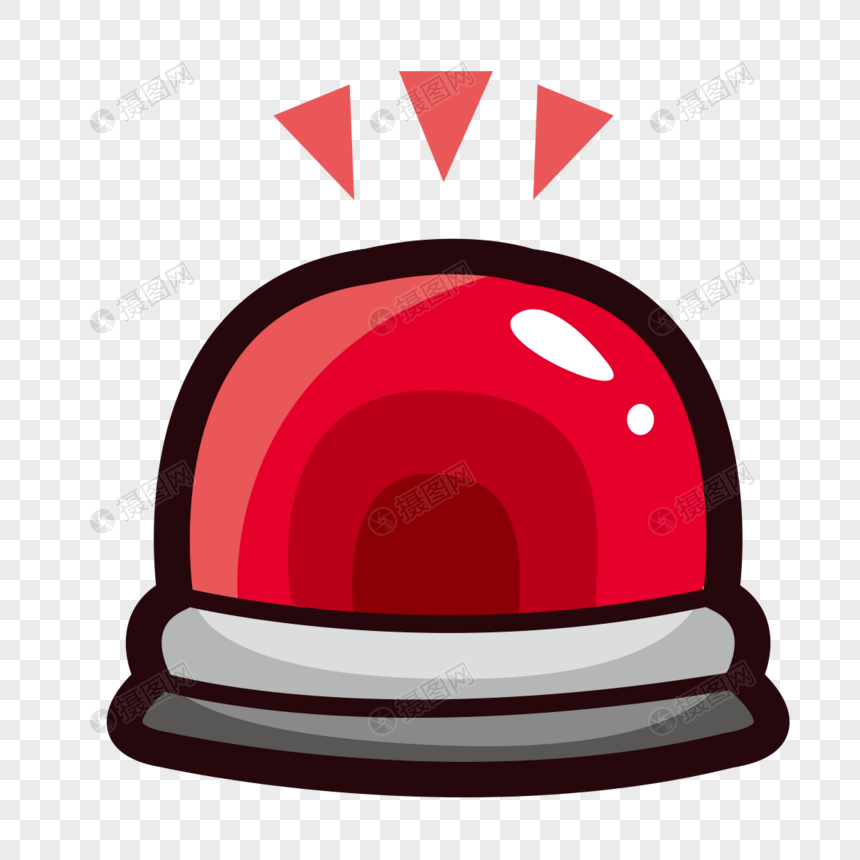
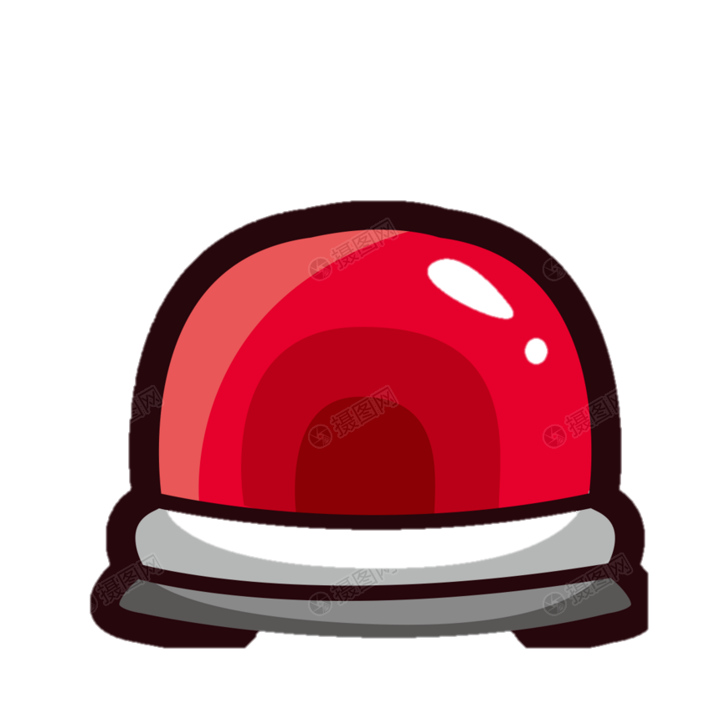
신고 아이콘 변경

diff --git a/web/resources/css/navbar.css b/web/resources/css/navbar.css
@@ -261,4 +261,6 @@ body {
     width: 20px;
     height: 20px;
     padding-left: 5px;
+    vertical-align: bottom;
+    background-color: white;
 }
